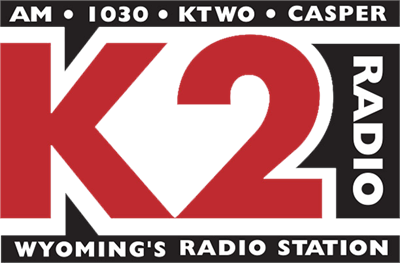
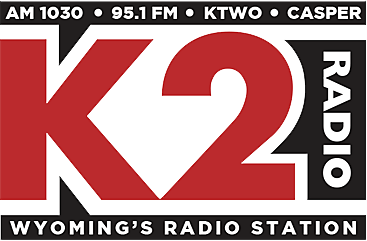
station updates

diff --git a/web/stations/stations-america.js b/web/stations/stations-america.js
@@ -1474,6 +1474,11 @@ var stations = {
             url: "https://ice23.securenetsystems.net/KMXW"
         },
         {
+            name: "K2 Radio 95.1",
+            logo: "stations/images-america/casper/K2 Radio 1030.png",
+            url: "https://live.wostreaming.net/manifest/townsquare-ktwoamaac-ibc3"
+        },
+        {
             name: "My Country 95.5",
             logo: "stations/images-america/casper/My Country 95.5.png",
             url: "https://live.wostreaming.net/manifest/townsquare-kwyyfmaac-ibc3"
@@ -1487,6 +1492,11 @@ var stations = {
             name: "100.5 KTED",
             logo: "stations/images-america/casper/100.5 KTED.png",
             url: "https://ice23.securenetsystems.net/KTED"
+        },
+        {
+            name: "101.9 The Cowboy",
+            logo: "stations/images-america/casper/101.9 The Cowboy.png",
+            url: "https://live.wostreaming.net/manifest/townsquare-kktlamaac-ibc3"
         },
         {
             name: "104.7 KISS FM",
@@ -1507,16 +1517,6 @@ var stations = {
             name: "KUYO AM 830",
             logo: "stations/images-america/casper/KUYO AM 830.png",
             url: "https://ais-sa1.streamon.fm/7061_24k.aac"
-        },
-        {
-            name: "K2 Radio 1030",
-            logo: "stations/images-america/casper/K2 Radio 1030.png",
-            url: "https://live.wostreaming.net/manifest/townsquare-ktwoamaac-ibc3"
-        },
-        {
-            name: "AM 1400 The Cowboy",
-            logo: "stations/images-america/casper/AM 1400 The Cowboy.png",
-            url: "https://live.wostreaming.net/manifest/townsquare-kktlamaac-ibc3"
         },
     ],
     "cedar_city": [
@@ -30941,6 +30941,11 @@ var stations_c2c = {
             name: "102.9 WMGK",
             logo: "stations/images-america/c2c/philadelphia_pa/102.9 WMGK.png",
             url: "https://ats-radio.herokuapp.com/index.php?ats=https://playerservices.streamtheworld.com/api/livestream-redirect/WMGKFMAACIHR_SC"
+        },
+        {
+            name: "Liberty Radio 103.3",
+            logo: "stations/images-america/c2c/philadelphia_pa/Liberty Radio 103.3.png",
+            url: "https://disruptor-radio.streamguys1.com/wmlb-live"
         },
         {
             name: "KYW Newsradio 103.9",
